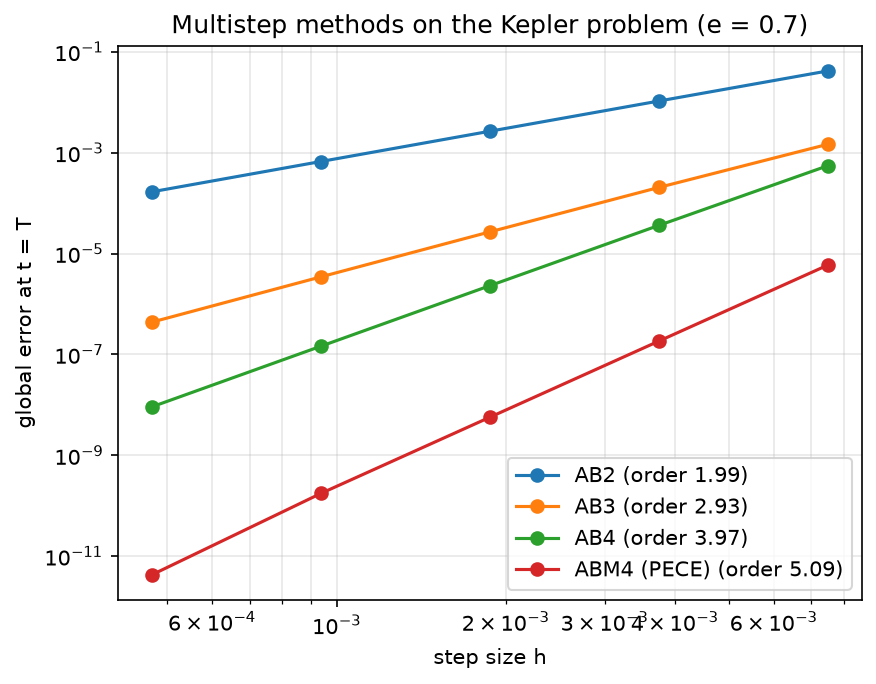
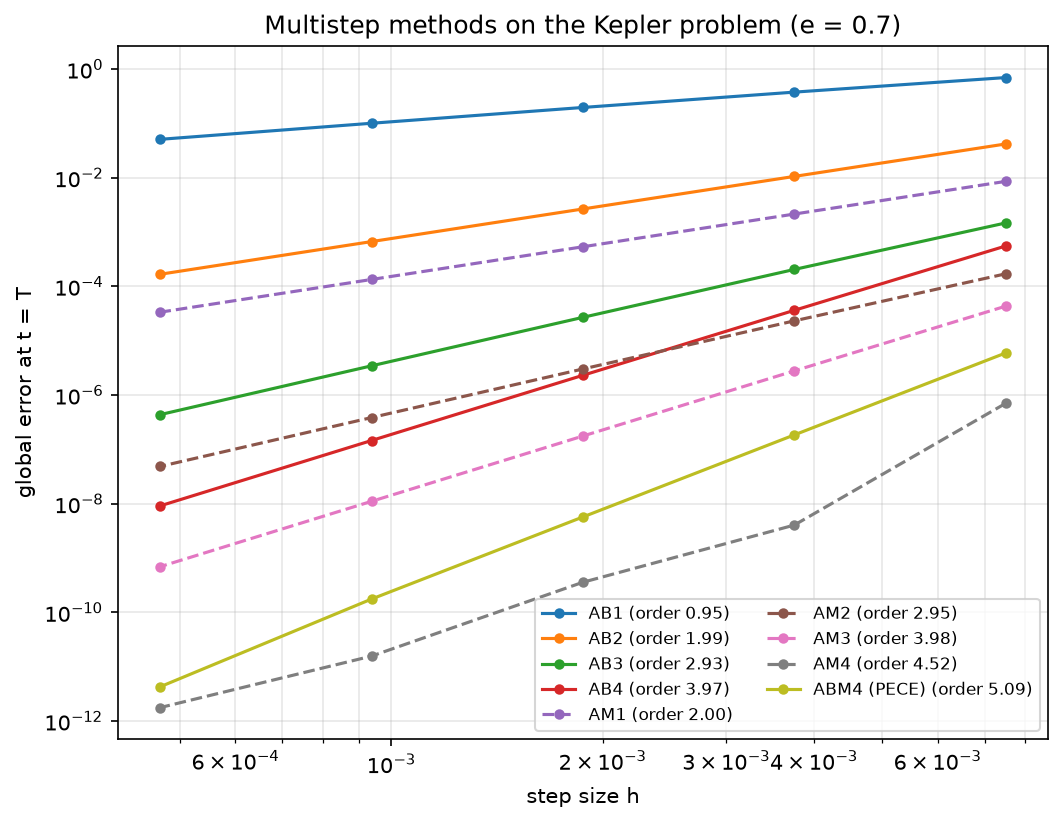
Plot all multistep methods in convergence and orbit figures

diff --git a/multistep_orbits.py b/multistep_orbits.py
@@ -2,7 +2,7 @@ import os
 import numpy as np
 import matplotlib.pyplot as plt
 from scipy.integrate import solve_ivp
-from multistep import adams_bashforth, abm4_pece
+from multistep import adams_bashforth, adams_moulton, abm4_pece
 
 e = 0.7
 periods, n = 2, 1000  # coarse step on purpose, to make the errors visible
@@ -20,24 +20,24 @@ ref = solve_ivp(f, (0, T), y0, method="DOP853", rtol=1e-13, atol=1e-13,
 t_ref = np.linspace(0, T, 2000)
 y_ref = ref.sol(t_ref)
 
-runs = {
-    "AB2": adams_bashforth(f, 0, T, y0, n, 2)[1],
-    "AB4": adams_bashforth(f, 0, T, y0, n, 4)[1],
-    "ABM4 (PECE)": abm4_pece(f, 0, T, y0, n)[1],
-}
+runs = {f"AB{k}": adams_bashforth(f, 0, T, y0, n, k)[1] for k in range(1, 5)}
+runs.update({f"AM{k}": adams_moulton(f, 0, T, y0, n, k)[1] for k in range(1, 5)})
+runs["ABM4 (PECE)"] = abm4_pece(f, 0, T, y0, n)[1]
 
 os.makedirs("figures", exist_ok=True)
-fig, axes = plt.subplots(1, len(runs), figsize=(13, 4.5), sharex=True, sharey=True)
-for ax, (name, y) in zip(axes, runs.items()):
+fig, axes = plt.subplots(3, 3, figsize=(14, 12), sharex=True, sharey=True)
+for ax, (name, y) in zip(axes.flat, runs.items()):
     err = np.linalg.norm(y[-1] - ref.y[:, -1])
     ax.plot(y_ref[0], y_ref[1], "k-", lw=1, label="DOP853 (reference)")
     ax.plot(y[:, 0], y[:, 1], "r-", lw=0.8, label=name)
     ax.plot(0, 0, "ko", ms=4)
     ax.set_title(f"{name}, error at final time: {err:.1e}")
     ax.set_aspect("equal")
-    ax.set_xlabel("x")
     ax.legend(loc="lower left", fontsize=8)
-axes[0].set_ylabel("y")
+for ax in axes[-1]:
+    ax.set_xlabel("x")
+for ax in axes[:, 0]:
+    ax.set_ylabel("y")
 fig.suptitle(f"Kepler orbit, e = {e}, {periods} periods, {n} steps")
 fig.tight_layout()
-plt.savefig("figures/multistep_orbits.png", dpi=150, bbox_inches="tight")
+plt.savefig("figures/multistep_orbits.png", dpi=130, bbox_inches="tight")

diff --git a/multistep_convergence.py b/multistep_convergence.py
@@ -2,7 +2,7 @@ import os
 import numpy as np
 import matplotlib.pyplot as plt
 from scipy.integrate import solve_ivp
-from multistep import adams_bashforth, abm4_pece
+from multistep import adams_bashforth, adams_moulton, abm4_pece
 
 e, T = 0.7, 3.0
 y0 = np.array([1 - e, 0.0, 0.0, np.sqrt((1 + e) / (1 - e))])
@@ -16,24 +16,25 @@ def f(t, y):
 ref = solve_ivp(f, (0, T), y0, method="DOP853", rtol=1e-13, atol=1e-13).y[:, -1]
 
 steps = np.array([400, 800, 1600, 3200, 6400])
-methods = {
-    "AB2": lambda n: adams_bashforth(f, 0, T, y0, n, 2),
-    "AB3": lambda n: adams_bashforth(f, 0, T, y0, n, 3),
-    "AB4": lambda n: adams_bashforth(f, 0, T, y0, n, 4),
-    "ABM4 (PECE)": lambda n: abm4_pece(f, 0, T, y0, n),
-}
+methods = {}
+for k in range(1, 5):
+    methods[f"AB{k}"] = lambda n, k=k: adams_bashforth(f, 0, T, y0, n, k)
+for k in range(1, 5):
+    methods[f"AM{k}"] = lambda n, k=k: adams_moulton(f, 0, T, y0, n, k)
+methods["ABM4 (PECE)"] = lambda n: abm4_pece(f, 0, T, y0, n)
 
 os.makedirs("figures", exist_ok=True)
-plt.figure()
+plt.figure(figsize=(8, 6))
 for name, run in methods.items():
     err = [np.linalg.norm(run(n)[1][-1] - ref) for n in steps]
     p = np.polyfit(np.log(T / steps), np.log(err), 1)[0]
     print(f"{name}: observed order {p:.2f}")
-    plt.loglog(T / steps, err, "o-", label=f"{name} (order {p:.2f})")
+    style = "--" if name.startswith("AM") else "-"
+    plt.loglog(T / steps, err, "o" + style, ms=4, label=f"{name} (order {p:.2f})")
 plt.xlabel("step size h")
 plt.ylabel("global error at t = T")
 plt.title("Multistep methods on the Kepler problem (e = 0.7)")
-plt.legend()
+plt.legend(fontsize=8, ncol=2)
 plt.grid(True, which="both", alpha=0.3)
 plt.savefig("figures/multistep_convergence.png", dpi=150, bbox_inches="tight")
 

diff --git a/README.md b/README.md
@@ -58,11 +58,17 @@ Note: explicit Euler uses much smaller steps (20,000 to 160,000 steps) than the 
 
 `multistep.py` adds Adams-type linear multistep methods: Adams–Bashforth (1 to 4 steps, order 1 to 4), Adams–Moulton (1 to 4 steps, order 2 to 5, implicit equation solved by fixed-point iteration) and the predictor–corrector scheme ABM4 in PECE form (AB4 predictor, AM4 corrector). Starting values are computed with DOP853.
 
-The observed orders on the test problem y' = -y, y(0) = 1 match the theoretical ones (checked by `tests/test_multistep.py`). On the Kepler problem (e = 0.7, global error at t = 3), the observed orders are AB2 ≈ 2.0, AB3 ≈ 2.9, AB4 ≈ 4.0 and ABM4 (PECE) ≈ 5.1 (`multistep_convergence.py`). With 1,000 steps, ABM4 (PECE) reaches an error of about 6e-8, against about 1.5e-5 for AB4.
+The observed orders on the test problem y' = -y, y(0) = 1 match the theoretical ones (checked by `tests/test_multistep.py`). On the Kepler problem (e = 0.7, global error at t = 3, `multistep_convergence.py`) the observed orders are:
+
+| Method | AB1 | AB2 | AB3 | AB4 | AM1 | AM2 | AM3 | AM4 | ABM4 (PECE) |
+|---|---|---|---|---|---|---|---|---|---|
+| Observed order | 0.95 | 1.99 | 2.93 | 3.97 | 2.00 | 2.95 | 3.98 | 4.52 | 5.09 |
+
+The value for AM4 is below the theoretical 5 because, for the smallest steps, its error approaches the accuracy of the DOP853 reference solution. With 1,000 steps, ABM4 (PECE) reaches an error of about 6e-8, against about 1.5e-5 for AB4.
 
 ![Multistep convergence](figures/multistep_convergence.png)
 
-Orbits computed with a deliberately coarse step (2 periods, 1,000 steps): AB2 loses the shape of the orbit, while AB4 and ABM4 (PECE) follow the reference orbit. The difference between the last two shows up in the error at the final time (2.8e-1 for AB4 against 8.4e-3 for ABM4), which here is mostly a phase error along the orbit.
+Orbits computed with a deliberately coarse step (2 periods, 1,000 steps, `multistep_orbits.py`) show the differences in accuracy. The error at the final time ranges from 4.2 for AB1 and 2.7 for AB2, whose orbits lose their shape, to 2.3e-2 for AM3, 8.4e-3 for ABM4 (PECE) and 5.7e-4 for AM4, which follow the reference orbit closely. At equal order, the implicit Adams–Moulton methods are more accurate than the explicit Adams–Bashforth ones.
 
 ![Multistep orbits](figures/multistep_orbits.png)
 
